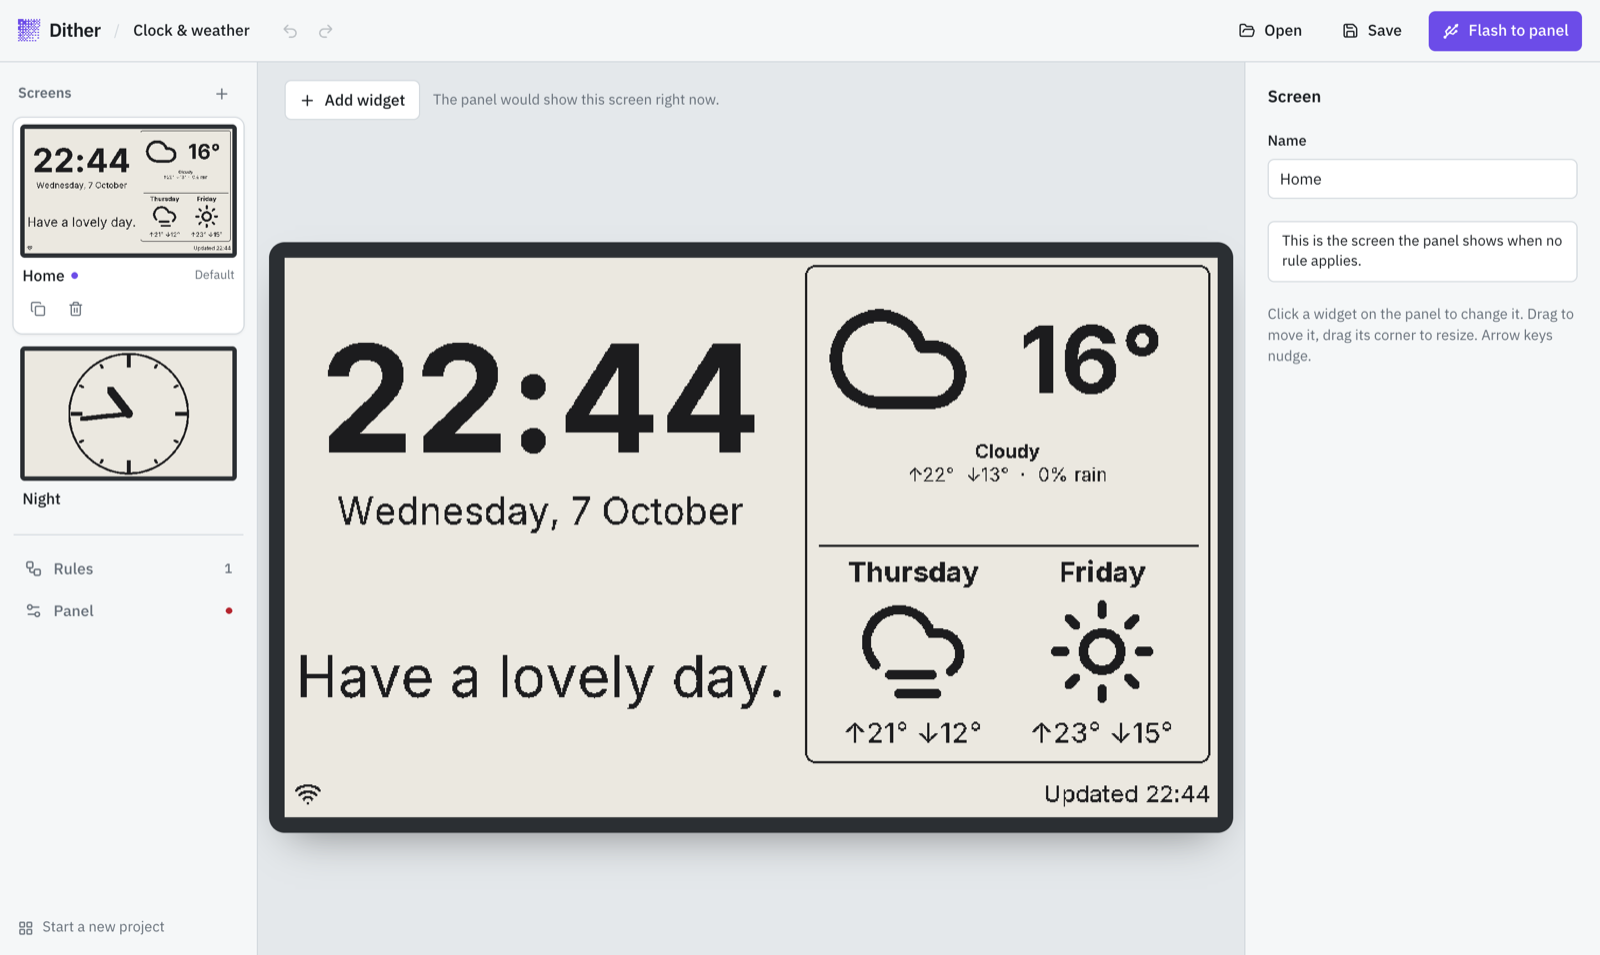
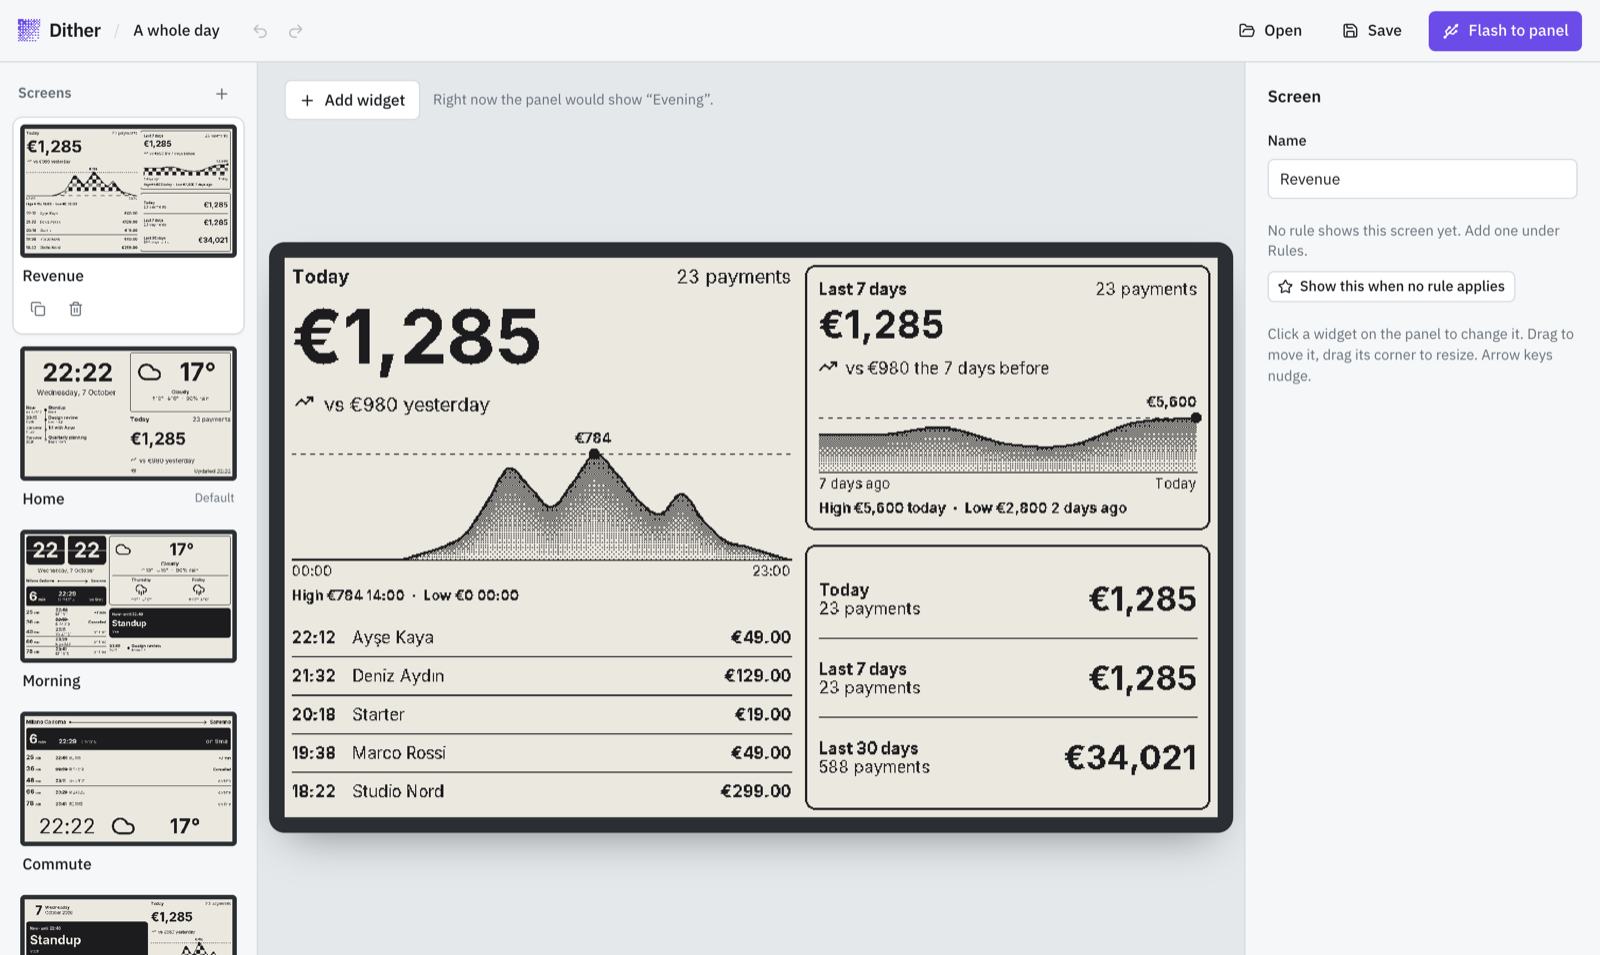
docs: show the revenue curves and the trains, draw how it fits together (#21)
The README now leads with a revenue screen (smooth, dithered Stripe
curves, payments, totals) and a commute screen, rendered by the real
runtime from the "A whole day" showcase. Adds diagrams for getting
started, the architecture, one wake of the panel and the anatomy of a
widget; a guide to connecting a widget to a service; and a roadmap of
what is done and what could come next.

diff --git a/README.md b/README.md
@@ -12,18 +12,20 @@
 <p align="center">
   <a href="https://kayraucklnc.github.io/dither/"><b>Open the app</b></a> ·
   <a href="#get-started">Get started</a> ·
-  <a href="docs/extensions.md">Write a widget</a> ·
-  <a href="docs/format.md">How it works</a>
+  <a href="#make-your-own-widget">Make a widget</a> ·
+  <a href="#roadmap">Roadmap</a> ·
+  <a href="docs/format.md">The format</a>
 </p>
 
 <p align="center">
-  <img src="docs/images/editor.png" alt="The Dither editor: a list of screens on the left, the panel preview in the middle showing a clock and the weather, and the screen's settings on the right" />
+  <img src="docs/images/editor.png" alt="The Dither editor: a list of screens on the left, a revenue screen with curved, dithered graphs on the panel preview in the middle, and the screen's settings on the right" />
 </p>
 
 ## What it is
 
 Dither turns a cheap e-paper panel into a calm display for your wall or desk:
-the time, the weather, your next meeting, your next train, a photo, a note.
+the time, the weather, your next meeting, your next train, today's revenue,
+a photo, a note.
 
 You design it in the browser and plug the panel in with a USB-C cable. After
 that the panel works on its own. It wakes up every few minutes, joins your
@@ -31,18 +33,45 @@ Wi-Fi, fetches its own data, picks a screen and draws it, then goes back to
 sleep. Nothing runs on your computer, and there is no cloud service in the
 middle.
 
-<p align="center">
-  <img src="docs/images/panel-home.png" width="32%" alt="A panel screen with a large clock, the date, a greeting and a weather forecast" />
-  <img src="docs/images/panel-dashboard.png" width="32%" alt="A dashboard screen with a calendar page, the time, a countdown, the weather and a message" />
-  <img src="docs/images/panel-night.png" width="32%" alt="A night screen showing only an analogue clock" />
-</p>
-<p align="center"><sub>These are exact renders. The simulator in the app and the panel use the same drawing code, so what you see in the browser is what you get on the wall, pixel for pixel.</sub></p>
+## What it looks like
+
+These are exact renders. The simulator in the app and the panel use the same
+drawing code, so what you see in the browser is what you get on the wall,
+pixel for pixel.
+
+<table>
+  <tr>
+    <td colspan="2" align="center">
+      <img src="docs/images/panel-revenue.png" alt="A revenue screen: today's Stripe revenue as a large figure with a smooth, dithered curve hour by hour, the latest payments, a seven-day curve, and today, 7-day and 30-day totals" /><br />
+      <b>Revenue from Stripe.</b> Smooth curves shaded with dithering, highs and lows, the latest payments, and totals over 1, 7 and 30 days.
+    </td>
+  </tr>
+  <tr>
+    <td width="50%" align="center">
+      <img src="docs/images/panel-commute.png" alt="A commute screen: the next train from Milano Cadorna to Saronno in 6 minutes on a black band, five more departures with delays and a cancellation, then the time and the weather" /><br />
+      <b>Your trains.</b> Minutes until the next one, delays and cancellations.
+    </td>
+    <td width="50%" align="center">
+      <img src="docs/images/panel-home.png" alt="A home screen with a large clock, the date and the weather" /><br />
+      <b>Clock and weather.</b> No account needed.
+    </td>
+  </tr>
+  <tr>
+    <td width="50%" align="center">
+      <img src="docs/images/panel-weekend.png" alt="A weekend screen with a calendar page, the weather forecast, a seven-day revenue curve and the Bitcoin price" /><br />
+      <b>Weekend.</b> Date, forecast, the week's revenue and a coin price.
+    </td>
+    <td width="50%" align="center">
+      <img src="docs/images/panel-evening.png" alt="An evening screen with an analogue clock, the forecast, a message and a countdown" /><br />
+      <b>Evening.</b> A clock face, a message and a countdown.
+    </td>
+  </tr>
+</table>
 
 ## What you need
 
-- A **Seeed Studio XIAO 7.5" ePaper Panel**
-  (800 × 480, black and white, ESP32-C3 inside). It's the only display
-  supported for now.
+- A **Seeed Studio XIAO 7.5" ePaper Panel** (800 × 480, black and white,
+  ESP32-C3 inside). It's the only display supported for now.
 - A **USB-C data cable**. Some cables can only charge; those won't work.
 - **Chrome or Edge on a computer.** Dither talks to the panel over Web Serial,
   which Safari and Firefox don't support. It also doesn't work on phones.
@@ -51,20 +80,32 @@ middle.
 
 ## Get started
 
+```mermaid
+flowchart LR
+    A["🌐 Open the app"] --> B["🖼 Pick a layout<br/>and your city"]
+    B --> C["✏ Arrange widgets<br/>add screens"]
+    C --> D["🔀 Add rules<br/>and alerts"]
+    D --> E["🔌 Plug in<br/>Flash to panel"]
+    E --> F["🖤 It runs<br/>on its own"]
+```
+
 1. **Open [the app](https://kayraucklnc.github.io/dither/).** Choose your
-   display, a starting layout, your city and your Wi-Fi.
+   display, a starting layout, your city and your Wi-Fi. If you want to see
+   everything at once, pick **A whole day**.
 2. **Make it yours.** Click a widget to change it, drag it to move it, and
    drag a corner to resize it. Use **Add widget** for more. Each screen is
    one page the panel can show.
 3. **Add rules if you like.** For example, *show Night between 23:00 and
-   07:00*, or *show Rainy when it's going to rain*. Alerts go on top of
-   whatever screen is showing, such as *trouble on your line*.
+   06:00*, or *show Commute on weekdays when my next train leaves in under 25
+   minutes*. Alerts go on top of whatever screen is showing, such as *trouble
+   on your line*. Use **Try it** to move the clock or the weather and see
+   which screen would show.
 4. **Plug in the panel and press Flash to panel.** The first flash also
    installs the firmware. After that, flashing a new design takes a few
    seconds.
 
 <p align="center">
-  <img src="docs/images/rules.png" alt="The Rules view: show the Night screen when the time of day is between 23:00 and 07:00, otherwise show Home, with a Try it panel for changing the time, battery and weather and seeing which screen would show" />
+  <img src="docs/images/rules.png" alt="The Rules view: show Night between 23:00 and 06:00, show Commute on weekdays between 06:30 and 09:30 when the next train leaves in under 25 minutes, and a Try it panel with the time, day, battery, Wi-Fi and every value the rules can test" />
 </p>
 
 Your project is saved in your browser as you work. You can also save it to a
@@ -78,41 +119,54 @@ back in, then let go.
 
 ## Widgets
 
-| Widget | Shows | Needs |
-|---|---|---|
-| Clock | The time, as digits or as a dial | — |
-| Date | Today, like a page torn off a calendar | — |
-| Weather | Now, today and the next days ([Open-Meteo](https://open-meteo.com/)) | — |
-| Google Calendar | Your next event or today's agenda | A Google OAuth client (the app walks you through it) |
-| Trains (Trenord) | Your next train, how late it is, and the ones after it | — |
-| Revenue (Stripe) | Today's, this week's or this month's revenue, and the latest payments | A Stripe key |
-| Crypto price | A coin's price and today's change ([CoinGecko](https://www.coingecko.com/)) | — |
-| Number from the web | Any value from a JSON address: a sensor, a counter, a price | — |
-| Countdown | Days until something you're looking forward to | — |
-| Messages | A different line every day or every hour, from a list you write | — |
-| Text | A heading, a note, anything you type | — |
-| Picture | A photo or drawing, dithered for e-ink | — |
-| Panel status | Wi-Fi, battery where the board can measure it, and when the panel last woke | — |
+| | Widget | Shows | Needs |
+|---|---|---|---|
+| 🕰 | Clock | The time as digits, flip tiles, a dial or words | — |
+| 📅 | Date | Today, like a page torn off a calendar | — |
+| ⛅ | Weather | Now, today and the next days ([Open-Meteo](https://open-meteo.com/)) | — |
+| 🗓 | Google Calendar | Every linked account as one agenda: now, next, and the rest of the day | A Google OAuth client (the app walks you through it) |
+| 🚆 | Trains (Trenord) | Your next train, how late it is, and the ones after it | — |
+| 💶 | Revenue (Stripe) | A figure, a smooth graph, a ledger or a full board with payments | A restricted Stripe key |
+| ₿ | Crypto price | A coin's price and today's change ([CoinGecko](https://www.coingecko.com/)) | — |
+| 🔢 | Number from the web | Any value from a JSON address: a sensor, a counter, a price | — |
+| ⏳ | Countdown | Days until something you're looking forward to | — |
+| 💬 | Messages | A different line every day or every hour, from a list you write | — |
+| ✍ | Text | A heading, a note, anything you type | — |
+| 🖼 | Picture | A photo or drawing, dithered for e-ink | — |
+| 📶 | Panel status | Wi-Fi, battery where the board can measure it, and when the panel last woke | — |
 
 Keys and account links stay in your browser and on your panel. When you save
 a project to a file, they're left out unless you choose to include them.
 
-Want a widget that isn't here? A widget is one TypeScript file, and the
-firmware never needs to change for it. See [Writing a widget](docs/extensions.md).
-
 ## How it works
 
-```
-┌──────────── your browser ────────────┐          ┌──── the panel ─────┐
-│ screens · widgets · rules · Wi-Fi    │  USB-C   │ wakes, joins Wi-Fi │
-│ simulator (same renderer as panel) ──┼─────────▶│ fetches, decides,  │
-│ compile → one binary blob            │  flash   │ draws, sleeps      │
-└──────────────────────────────────────┘          └────────────────────┘
+```mermaid
+flowchart LR
+    subgraph browser["💻 Your browser — the app"]
+        direction TB
+        ED["Editor<br/>screens · widgets · rules"] --> CO["Compiler<br/>layout, fonts, icons,<br/>pictures, URLs"]
+        CO --> BL[("One blob<br/>≤ 1 MB")]
+        BL --> SIM["Simulator<br/>TypeScript renderer"]
+    end
+
+    subgraph panel["🖤 The panel — ESP32-C3"]
+        direction TB
+        FW["Firmware<br/>C++ renderer"] --> EP["E-ink<br/>800 × 480"]
+    end
+
+    subgraph web["🌍 The internet"]
+        direction TB
+        API["Open-Meteo · Google · Stripe<br/>Trenord · CoinGecko · any JSON"]
+    end
+
+    BL == "USB-C<br/>Web Serial" ==> FW
+    FW <-. "HTTPS on each wake" .-> API
+    SIM -. "same pixels,<br/>checked by tests" .- FW
 ```
 
 - **The browser compiles; the panel interprets.** Everything that can be
   decided in advance (layout, fonts, icons, pictures, settings, URLs) is
-  worked out in the browser and packed into a single file on the panel. The
+  worked out in the browser and packed into a single blob on the panel. The
   firmware is a small interpreter, so new widgets never need a firmware
   update.
 - **Values are bound, not baked in.** A widget draws "the temperature" as a
@@ -122,6 +176,157 @@ firmware never needs to change for it. See [Writing a widget](docs/extensions.md
   specified in [`docs/format.md`](docs/format.md). The simulator (TypeScript)
   and the firmware (C++) both implement it, and both have to draw the images
   in [`spec/fixtures/`](spec/fixtures) bit for bit.
+
+Every few minutes, the panel goes through one wake:
+
+```mermaid
+flowchart LR
+    S(["😴 Deep sleep"]) --> W["⏰ Wake"]
+    W --> N["📶 Join Wi-Fi<br/>sync the clock"]
+    N --> F["⬇ Fetch the sources<br/>that are due"]
+    F --> R{"🔀 Rules<br/>top to bottom"}
+    R -->|first true| SC["🖼 That screen"]
+    R -->|none| DF["🏠 Default screen"]
+    SC --> AL["🚨 Alerts on top"]
+    DF --> AL
+    AL --> D["✏ Draw"]
+    D --> S
+```
+
+Values the panel fetched survive sleep, so a screen still draws when Wi-Fi is
+down. While it's plugged into a computer, the panel stays awake so the app
+can always reach it.
+
+## Make your own widget
+
+A widget is **one TypeScript file** in `app/src/extensions/`. You never touch
+the firmware. The widget says what settings it has, what to fetch, what rules
+can ask about it, and how it looks. The compiler turns that into things the
+panel already knows how to do.
+
+```mermaid
+flowchart TB
+    subgraph ext["📦 Your widget — index.ts"]
+        direction LR
+        FI["fields<br/><i>settings</i>"]
+        SO["source<br/><i>what to fetch</i>"]
+        SA["sample<br/><i>fake data</i>"]
+        FA["facts<br/><i>what rules can test</i>"]
+        DR["draw<br/><i>how it looks</i>"]
+    end
+
+    FI --> FORM["⚙ A settings form<br/>in the editor"]
+    SO --> FETCH["⬇ An HTTPS request<br/>the panel makes"]
+    SA --> PREV["👀 An instant preview<br/>in the gallery"]
+    FA --> RULES["🔀 New choices<br/>in Rules and Alerts"]
+    DR --> LAYOUT["✏ Text, shapes, graphs<br/>bound to live values"]
+```
+
+Here's a complete widget that shows today's visitors from an analytics API:
+
+```ts
+import { defineExtension } from "../api";
+
+export default defineExtension({
+  id: "visitors",
+  name: "Visitors",
+  description: "Today's visitors, from your analytics.",
+  icon: "globe",
+  category: "data",
+  size: { min: [3, 2], default: [5, 3] },
+  fields: [{ key: "site", label: "Site", kind: "text" }],
+  defaults: () => ({ site: "" }),
+  source: (s) => s.site ? {
+    url: `https://stats.example.com/api/${s.site}/today`,
+    every: 30,                                         // minutes between fetches
+    values: { count: "visitors", trend: "change.percent" }, // JSON paths to keep
+  } : null,
+  sample: () => ({ count: 1834, trend: 12.5 }),
+  facts: () => [{ key: "count", label: "Visitors today", type: "number", value: "count" }],
+  draw(d) {
+    const size = d.fit(["88,888"], d.width, d.height * 0.7, { weight: 700 });
+    d.text(d.value("count", { num: { d: 0, sep: "," } }), { x: 0, y: 0, w: d.width, h: d.height * 0.7, size, weight: 700 });
+    d.text(["Visitors · ", d.value("trend", { num: { d: 1 } }), "%"], { x: 0, y: d.height * 0.7, w: d.width, h: d.height * 0.3, size: 20 });
+  },
+});
+```
+
+Add one line to `app/src/extensions/index.ts` and it shows up in the widget
+gallery with its sample data. Because rules can test `count`, *show the Launch
+screen when visitors today is above 10,000* now works too.
+
+### Connecting to a service
+
+The panel makes plain HTTPS GET requests and reads JSON. Most services fit one
+of these patterns, and there's a bundled widget to copy for each:
+
+| The service needs | Use in `source` | Copy from |
+|---|---|---|
+| Nothing, it's public JSON | `url` and `values` | Weather, Crypto, Number from the web |
+| An API key | a `secret` field and `headers: [["Authorization", "Bearer …"]]` | Stripe |
+| An OAuth login | `auth`: the panel trades a refresh token for an access token on each wake | Google Calendar |
+| Totals or a graph from a list | `values: { x: { path, agg: "sum" \| "count" \| "buckets" } }` | Stripe |
+| An encrypted reply | `decode: { aes256ecb: key }` | Trains (Trenord) |
+| The date or time in the URL | `{{now\|YYYY-MM-DD}}`, `{{today-86400}}` | Google Calendar, Stripe |
+
+The panel can't run JavaScript, follow a login page, or read anything other
+than JSON. If a service needs any of those, it isn't a fit yet.
+
+The full guide, with layout tips and the whole `Draw` API, is
+[docs/extensions.md](docs/extensions.md).
+
+## Roadmap
+
+✅ done · ⬜ ideas, and help is welcome. Open an issue if you'd like to pick one up.
+
+**Editor and app**
+- ✅ Design screens in the browser: drag, resize, undo and redo
+- ✅ Simulator that matches the panel pixel for pixel
+- ✅ Rules that switch screens by time, day, weather, trains, meetings or revenue
+- ✅ Alerts that go on top of any screen
+- ✅ **Try it**: move the clock and the data, and see which screen would show
+- ✅ Starter layouts, including *A whole day* with every widget
+- ✅ Projects saved in the browser, to a file and on the panel itself
+- ✅ Hosted on GitHub Pages, so there's nothing to install
+- ⬜ Share a design as a link or a gallery of community layouts
+- ⬜ Several panels in one project
+- ⬜ The editor in more languages
+- ⬜ Works offline as an installable app (PWA)
+
+**Panel and firmware**
+- ✅ Flash the firmware and the design from the browser over USB
+- ✅ Deep sleep between wakes, and awake while plugged in
+- ✅ Its own time-zone engine, so the panel and the preview always agree
+- ✅ Fonts trimmed to the characters a screen can show
+- ✅ Cached values, so a screen still draws when Wi-Fi drops
+- ✅ OAuth refresh, encrypted replies and list totals on the panel
+- ✅ Smooth, dithered graphs drawn on the panel
+- ⬜ Update the design over Wi-Fi, without a cable
+- ⬜ Set up Wi-Fi from a phone over Bluetooth
+- ⬜ Only refresh the parts of the screen that changed
+- ⬜ More boards: Waveshare panels, TRMNL, Inkplate, M5Paper
+- ⬜ Grey levels and red/yellow panels
+- ⬜ Battery measurement on boards that wire it up
+
+**Widgets and connectors**
+- ✅ Clock: digits, flip tiles, a dial or words
+- ✅ Weather from Open-Meteo, with no account
+- ✅ Google Calendar, several accounts merged into one agenda
+- ✅ Stripe: figure, curved graph, ledger and payments board
+- ✅ Trains from Trenord, with delays, cancellations and line alerts
+- ✅ Crypto prices, countdowns, messages, pictures, text and any JSON value
+- ⬜ Any calendar from an iCal link, with no OAuth
+- ⬜ Public transport anywhere through GTFS-Realtime, plus TfL, SBB, BVG and NS
+- ⬜ Home Assistant: sensors, rooms and switches
+- ⬜ Air quality, pollen, UV, sunrise and sunset, moon phase
+- ⬜ GitHub: open PRs, CI status, a contribution graph
+- ⬜ Analytics: Plausible, Umami, Google Analytics
+- ⬜ Tasks: Todoist, Linear, Notion
+- ⬜ News headlines from RSS
+- ⬜ Spotify: what's playing
+- ⬜ Strava: this week's runs and rides
+- ⬜ A QR code widget, for guest Wi-Fi or a link
+- ⬜ A graph widget for any number series from a JSON address
 
 ## Run it yourself
 
